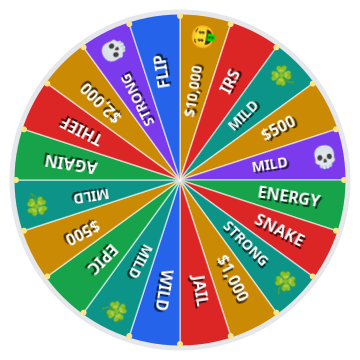
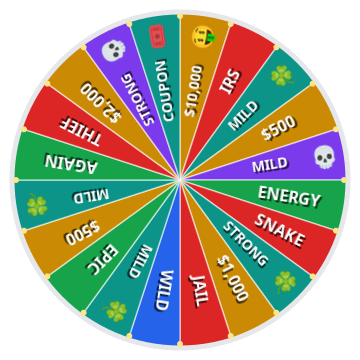
Wheel coupons and safer hunting
The free wheel's coin flip is now a Coupon (a Strong lucky charm: $10,000 off your next shop purchase) and the paid wheel's DOUBLE a Golden Coupon (Insane: $30,000 off). Both are only won on their own slices, and with both in the Pocket the shop uses the smallest one that covers the price. Licenses, ammo and recovery items can now be bought for $0 like tools already could, so a Coupon works for someone who has never had cash. The wheel now says "an Insane" lucky charm. Big game sends you to the hospital 10% of the time with the Mossberg, 6% with the Remington and 4% with the Barrett (was 15, 10 and 7), and small game 2% (was 3); the difference goes to common game. Wheel art redrawn.

Changed region(s): [[0.3667, 0.0306, 0.5194, 0.4889]]

diff --git a/src/commands/shop.js b/src/commands/shop.js
@@ -5,11 +5,30 @@ import { matchAnswer, optionsLine } from '../answers.js';
 import { claimGame } from '../games.js';
 import { formatWait } from '../duration.js';
 import { green, gained, lost } from '../colors.js';
+import { drawCharm, kickedIn } from '../charms.js';
 
 // Trading in a tool when upgrading is worth half of what's left of it
 // (guns and safes don't wear, so half their price).
 const TRADE_IN = 0.5;
 const tradeIn = (tool, uses) => Math.round(TRADE_IN * tool.price * (breakable(tool) ? Math.max(0, tool.max - uses) / tool.max : 1));
+
+// A Coupon from the Pocket takes up to its cap off a purchase of `price`:
+// `due` is what's left to pay, and `spend()` uses the Coupon up once the
+// purchase went through, giving the line the reply starts with.
+function couponFor(db, server, userId, price, track) {
+  const drawn = drawCharm(db, server, userId, { use: 'buy', price });
+  const off = drawn ? Math.min(price, drawn.charm.cap) : 0;
+  return {
+    due: price - off,
+    spend() {
+      if (!off) return '';
+      drawn.use();
+      track.earned('charms', off);
+      return `${kickedIn(drawn.charm)} It took ${gained(off)} off.\n`;
+    },
+  };
+}
+const paid = (cents) => (cents ? lost(cents) : 'free');
 
 export default {
   name: 'shop',
@@ -107,25 +126,28 @@ function buy(text, { prefix, user, server, db, track, reply, awaitAnswer }) {
   const ammo = current?.kind === 'gun' && ammoById.get(current.ammo);
   const credit = current ? tradeIn(current, held.uses) + (rounds ? Math.round(TRADE_IN * rounds * ammo.price / ammo.rounds) : 0) : 0;
   const cost = Math.max(0, tool.price - credit);
+  const coupon = couponFor(db, server.key, user.id, cost, track);
   const balance = db.cents(server.key, user.id);
-  const bought = tool.kind === 'gun' ? db.buyGun(server.key, user.id, tool.id, cost) : db.buyTool(server.key, user.id, tool.kind, tool.id, cost);
-  if (!bought) return reply(`That costs ${formatMoney(cost)}. You only have ${formatMoney(balance)}.`);
+  const bought = tool.kind === 'gun' ? db.buyGun(server.key, user.id, tool.id, coupon.due) : db.buyTool(server.key, user.id, tool.kind, tool.id, coupon.due);
+  if (!bought) return reply(`That costs ${formatMoney(coupon.due)}. You only have ${formatMoney(balance)}.`);
   track.lost('shop', cost);
+  const charmed = coupon.spend();
   const now = formatMoney(db.cents(server.key, user.id));
   const old = rounds ? `${current.name} (and ${rounds} ${rounds === 1 ? 'round' : 'rounds'})` : current?.name;
-  return reply(credit
-    ? `🛒 You traded in your ${old} for ${gained(credit)} and bought a ${tool.name} for ${lost(cost)}. You now have ${now}.`
-    : `🛒 You bought a ${tool.name} for ${lost(cost)}. You now have ${now}.`);
+  return reply(charmed + (credit
+    ? `🛒 You traded in your ${old} for ${gained(credit)} and bought a ${tool.name} for ${paid(coupon.due)}. You now have ${now}.`
+    : `🛒 You bought a ${tool.name} for ${paid(coupon.due)}. You now have ${now}.`));
 }
 
 function buyLicense(license, { user, server, db, track, reply }) {
   if (db.licenses(server.key, user.id).includes(license.id)) return reply(`You already have a ${license.name}.`);
+  const coupon = couponFor(db, server.key, user.id, license.price, track);
   const balance = db.cents(server.key, user.id);
-  if (!db.buyLicense(server.key, user.id, license.id, license.price)) {
-    return reply(`That costs ${formatMoney(license.price)}. You only have ${formatMoney(balance)}.`);
+  if (!db.buyLicense(server.key, user.id, license.id, coupon.due)) {
+    return reply(`That costs ${formatMoney(coupon.due)}. You only have ${formatMoney(balance)}.`);
   }
   track.lost('shop', license.price);
-  return reply(`🪪 You bought a ${license.name} for ${lost(license.price)}. You now have ${formatMoney(db.cents(server.key, user.id))}.`);
+  return reply(`${coupon.spend()}🪪 You bought a ${license.name} for ${paid(coupon.due)}. You now have ${formatMoney(db.cents(server.key, user.id))}.`);
 }
 
 // Ammo only for the gun someone has: anything else wouldn't fit it.
@@ -133,13 +155,14 @@ function buyAmmo(ammo, { prefix, user, server, db, track, reply }) {
   const gun = toolById.get(db.tool(server.key, user.id, 'gun')?.item);
   if (!gun) return reply(`That's ammo for the ${gunFor(ammo).name}, and you don't have a gun. Check \`${prefix}shop\`.`);
   if (gun.ammo !== ammo.id) return reply(`That won't fit your ${gun.name}. It takes ${ammoById.get(gun.ammo).name} (number ${numberOf(ammoById.get(gun.ammo))}).`);
+  const coupon = couponFor(db, server.key, user.id, ammo.price, track);
   const balance = db.cents(server.key, user.id);
-  if (!db.buyAmmo(server.key, user.id, ammo.id, ammo.rounds, ammo.price)) {
-    return reply(`That costs ${formatMoney(ammo.price)}. You only have ${formatMoney(balance)}.`);
+  if (!db.buyAmmo(server.key, user.id, ammo.id, ammo.rounds, coupon.due)) {
+    return reply(`That costs ${formatMoney(coupon.due)}. You only have ${formatMoney(balance)}.`);
   }
   track.lost('shop', ammo.price);
   const rounds = db.ammo(server.key, user.id).get(ammo.id);
-  return reply(`📦 You bought ${ammo.rounds} rounds of ${ammo.name} for ${lost(ammo.price)} (${rounds} now). You now have ${formatMoney(db.cents(server.key, user.id))}.`);
+  return reply(`${coupon.spend()}📦 You bought ${ammo.rounds} rounds of ${ammo.name} for ${paid(coupon.due)} (${rounds} now). You now have ${formatMoney(db.cents(server.key, user.id))}.`);
 }
 
 const YES_NO = { y: 'yes', yeah: 'yes', yep: 'yes', sure: 'yes', ok: 'yes', okay: 'yes', n: 'no', nah: 'no', nope: 'no' };
@@ -147,11 +170,12 @@ const YES_NO = { y: 'yes', yeah: 'yes', yep: 'yes', sure: 'yes', ok: 'yes', okay
 // Recovery items are used on the spot. One that would top the bar past its
 // max asks first, since the extra is lost.
 async function buyBoost(boost, { user, server, db, track, reply, awaitAnswer }) {
+  let coupon = couponFor(db, server.key, user.id, boost.price, track);
   const refused = (bar) => {
     if (bar.boostIn) return `You've had a recovery item in the last hour. Your next one is ready in ${formatWait(bar.boostIn)}.`;
     if (bar.points >= bar.max) return `Your energy is already full (${bar.max}/${bar.max}).`;
     const balance = db.cents(server.key, user.id);
-    return balance < boost.price ? `That costs ${formatMoney(boost.price)}. You only have ${formatMoney(balance)}.` : null;
+    return balance < coupon.due ? `That costs ${formatMoney(coupon.due)}. You only have ${formatMoney(balance)}.` : null;
   };
   let bar = energyOf(db, server.key, user.id);
   if (refused(bar)) return reply(refused(bar));
@@ -169,16 +193,17 @@ async function buyBoost(boost, { user, server, db, track, reply, awaitAnswer }) 
     } finally {
       release();
     }
-    // Things may have changed while they thought about it.
+    // Things may have changed while they thought about it (the Coupon spent, even).
     bar = energyOf(db, server.key, user.id);
+    coupon = couponFor(db, server.key, user.id, boost.price, track);
     if (refused(bar)) return reply(refused(bar));
   }
 
   const now = Date.now();
   const { points } = boosted(bar, boost);
-  if (!db.buyBoost(server.key, user.id, boost.price, points, points >= bar.max ? now : bar.since, now)) return reply(refused(bar));
+  if (!db.buyBoost(server.key, user.id, coupon.due, points, points >= bar.max ? now : bar.since, now)) return reply(refused(bar));
   track.lost('shop', boost.price);
-  return reply(`⚡ You bought ${/^[aeiou]/i.test(boost.name) ? 'an' : 'a'} ${boost.name} for ${lost(boost.price)}. Energy: ${points}/${bar.max}. You now have ${formatMoney(db.cents(server.key, user.id))}.`);
+  return reply(`${coupon.spend()}⚡ You bought ${/^[aeiou]/i.test(boost.name) ? 'an' : 'a'} ${boost.name} for ${paid(coupon.due)}. Energy: ${points}/${bar.max}. You now have ${formatMoney(db.cents(server.key, user.id))}.`);
 }
 
 function redeem(text, { user, server, db, track, reply }) {

diff --git a/src/charms.js b/src/charms.js
@@ -22,7 +22,9 @@ export const SEVERITIES = {
 };
 
 // on: gather (fish, mine, hunt), hunt, break (a pole or pickaxe about to
-// break), tool (a pole or pickaxe), bet or sell.
+// break), tool (a pole or pickaxe), bet, sell or buy (a ?shop purchase).
+// `ownSlice` charms are only won on their own wheel slice, never a charm slice.
+// A Coupon's `cap` is the most it takes off a purchase.
 export const CHARMS = [
   { id: 'second_wind', type: 'lucky', severity: 'mild', emoji: '🔋', name: 'Second Wind', on: 'gather',
     text: 'Your next fish, mine or hunt costs no energy.' },
@@ -40,10 +42,14 @@ export const CHARMS = [
     text: 'Your next two fish, mine or hunt are guaranteed epic.' },
   { id: 'guardian_angel', type: 'lucky', severity: 'strong', emoji: '👼', name: 'Guardian Angel', on: 'bet',
     text: "If you lose money on your next bet of $1,000 or more (a timeout penalty too), it's refunded (up to $10,000)." },
+  { id: 'coupon', type: 'lucky', severity: 'strong', emoji: '🎟', name: 'Coupon', on: 'buy', ownSlice: true, cap: 1_000_000,
+    text: 'Your next shop purchase is free, up to $10,000 (anything pricier gets $10,000 off). Pick carefully: it works on whatever you buy next, even a $25 fishing pole.' },
   { id: 'midas_touch', type: 'lucky', severity: 'insane', emoji: '👑', name: 'Midas Touch', on: 'sell',
     text: 'The next time you sell, one unit of the most valuable item in that sale sells for double. Pick carefully: it works on whatever you sell next, even a Rusty Nail.' },
   { id: 'pot_of_gold', type: 'lucky', severity: 'insane', emoji: '🌈', name: 'Pot of Gold', on: 'gather', legendary: true,
     text: 'Your next fish, mine or big-game hunt is guaranteed legendary.' },
+  { id: 'golden_coupon', type: 'lucky', severity: 'insane', emoji: '🎫', name: 'Golden Coupon', on: 'buy', ownSlice: true, cap: 3_000_000,
+    text: 'Your next shop purchase is free, up to $30,000 (anything pricier gets $30,000 off). It works on whatever you buy next, but with a Coupon too, the smaller one is used if it covers the price.' },
 
   { id: 'black_cat', type: 'misfortune', severity: 'mild', emoji: '🐈⬛', name: 'Black Cat', on: 'gather',
     text: 'Your next fish, mine or hunt catches nothing.' },
@@ -71,7 +77,7 @@ export const charmById = new Map(CHARMS.map((c) => [c.id, c]));
 
 // Whether a charm can fire on this use:
 //   { use: 'fish' | 'mine' | 'hunt_small' | 'hunt_big', breaking, room }
-//   { use: 'bet', wager, chance }      { use: 'sell', valuable }
+//   { use: 'bet', wager, chance }      { use: 'sell', valuable }      { use: 'buy', price }
 function fits(charm, use) {
   const gathering = ['fish', 'mine', 'hunt_small', 'hunt_big'].includes(use.use);
   const hunting = use.use.startsWith('hunt');
@@ -88,17 +94,22 @@ function fits(charm, use) {
     case 'break': return false;
     case 'bet': return use.use === 'bet' && use.wager >= BET_CHARM_MIN && (!charm.longShot || use.chance <= 1 / 3);
     case 'sell': return use.use === 'sell' && (!charm.valuable || use.valuable);
+    case 'buy': return use.use === 'buy';
     default: return false;
   }
 }
 
 // One charm from someone's Pocket that fits this use, picked at random, or
-// null. It isn't used up until `use()` is called (once the command really
+// null. Coupons aren't random: the smallest that covers the price, else the
+// biggest. It isn't used up until `use()` is called (once the command really
 // happens).
 export function drawCharm(db, server, userId, use) {
   const rows = db.pocket(server, userId).filter((r) => charmById.has(r.charm) && fits(charmById.get(r.charm), use));
   if (!rows.length) return null;
-  const row = rows[randomInt(rows.length)];
+  const cap = (r) => charmById.get(r.charm).cap;
+  const row = use.use === 'buy'
+    ? rows.sort((a, b) => cap(a) - cap(b)).find((r) => cap(r) >= use.price) ?? rows.at(-1)
+    : rows[randomInt(rows.length)];
   return { charm: charmById.get(row.charm), use: () => db.useCharm(row.id) };
 }
 
@@ -147,4 +158,4 @@ export function findCharm(text) {
 }
 
 // Charms of a type and severity, for the wheel's charm slices.
-export const charmsOf = (type, severity) => CHARMS.filter((c) => c.type === type && c.severity === severity);
+export const charmsOf = (type, severity) => CHARMS.filter((c) => c.type === type && c.severity === severity && !c.ownSlice);

diff --git a/src/commands/wheel.js b/src/commands/wheel.js
@@ -6,7 +6,7 @@ import { claimGame } from '../games.js';
 import { placeOf } from '../storage.js';
 import { hospitalize, takeable, billLine } from '../hospital.js';
 import { surge, energyOf } from '../energy.js';
-import { charmsOf, givesCharm, charmName, TYPES, SEVERITIES } from '../charms.js';
+import { charmById, charmsOf, givesCharm, charmName, TYPES, SEVERITIES } from '../charms.js';
 import { gained, lost, green, red } from '../colors.js';
 import { formatWait } from '../duration.js';
 
@@ -172,9 +172,6 @@ function land(slice, ctx) {
       return { text: `${slice.emoji} You won ${gained(slice.cents)}!${slice.cents >= 1_000_000 ? ' **JACKPOT!**' : ''}` };
     case 'lose':
       return { text: `💸 You lost a bet with a stranger. ${collect(slice.cents)}` };
-    case 'flip':
-      if (randomInt(2)) { give(slice.cents); return { text: `🪙 The coin says heads: ${gained(slice.cents)}!` }; }
-      return { text: `🪙 The coin says tails. ${collect(slice.cents)}` };
     case 'irs': {
       const owed = Math.min(Math.round(cash() * slice.rate), slice.max);
       const taken = owed ? take(owed) : 0;
@@ -232,11 +229,12 @@ function land(slice, ctx) {
       return { text: `🚔 Jail! No economy commands for ${formatWait(slice.ms)} (out <t:${stamp(until)}:R>). \`?stats\` still works.` };
     }
     case 'charm': {
-      const pool = charmsOf(slice.type, slice.severity);
+      // A slice naming its charm (a Coupon) always gives that one.
+      const pool = slice.charm ? [charmById.get(slice.charm)] : charmsOf(slice.type, slice.severity);
       const charm = pool[randomInt(pool.length)];
       givesCharm(db, server.key, user.id, charm);
       const [severity, paint] = SEVERITIES[slice.type][slice.severity];
-      return { text: `${TYPES[slice.type].emoji} You got a ${paint(severity)} ${TYPES[slice.type].label.toLowerCase()}: ${charm.emoji} ${charmName(charm)}! ${charm.text}` };
+      return { text: `${TYPES[slice.type].emoji} You got ${/^[aeiou]/i.test(severity) ? 'an' : 'a'} ${paint(severity)} ${TYPES[slice.type].label.toLowerCase()}: ${charm.emoji} ${charmName(charm)}! ${charm.text}` };
     }
     case 'wild': {
       const option = slice.options[randomInt(slice.options.length)];
@@ -265,7 +263,7 @@ function steal(id, { server, user, db, track }) {
 // good outcomes in green and bad ones in red (gambles stay plain). No emojis
 // on the lines: owner's call, it was too much.
 const GROUPS = [
-  ['Money', ['cash', 'lose', 'irs', 'flip']],
+  ['Money', ['cash', 'lose', 'irs']],
   ['Charms', ['charm']],
   ['Items & perks', ['items', 'surge', 'again', 'wild']],
   ['Bad luck', ['snake', 'hospital', 'pickpocket', 'robbed', 'jail']],
@@ -275,8 +273,7 @@ function odds() {
     cash: () => [green, formatMoney(s.cents)],
     lose: () => [red, `Lose ${formatMoney(s.cents)} (cash first, then items)`],
     irs: () => [red, `IRS audit: ${Math.round(s.rate * 100)}% of your cash, up to ${formatMoney(s.max)}`],
-    flip: () => [String, `Coin flip: win or lose ${formatMoney(s.cents)}`],
-    charm: () => [s.type === 'lucky' ? green : red, `${SEVERITIES[s.type][s.severity][0]} ${TYPES[s.type].label.toLowerCase()}`],
+    charm: () => [s.type === 'lucky' ? green : red, `${SEVERITIES[s.type][s.severity][0]} ${TYPES[s.type].label.toLowerCase()}${s.charm ? `: ${charmById.get(s.charm).name}` : ''}`],
     items: () => [green, s.count > 1 ? `${s.count} ${s.tier} items` : `${/^[aeiou]/.test(s.tier) ? 'An' : 'A'} ${s.tier} item`],
     surge: () => [green, 'Energy Surge: double energy max for 12 hours'],
     again: () => [green, 'Spin again'],

diff --git a/src/wheel.js b/src/wheel.js
@@ -41,10 +41,11 @@ export const WHEELS = {
     { emoji: '🥷', label: 'THIEF', color: C.bad, kind: 'pickpocket' },
     { emoji: '💰', label: '$2,000', color: C.cash, kind: 'cash', cents: 200_000 },
     { emoji: '💀', label: 'STRONG', color: C.misfortune, kind: 'charm', type: 'misfortune', severity: 'strong' },
-    { emoji: '🪙', label: 'FLIP', color: C.swing, kind: 'flip', cents: 100_000 },
+    { emoji: '🎟', label: 'COUPON', color: C.lucky, kind: 'charm', type: 'lucky', severity: 'strong', charm: 'coupon' },
   ],
   // Paid spins: high risk, high reward. The first one each day gives back
-  // about what it costs; the doubling price makes the rest lose.
+  // about what it costs (a bit more for someone who wants something from the
+  // shop, with the Golden Coupon); the doubling price makes the rest lose.
   paid: [
     { emoji: '🎰', label: '$40,000', color: C.jackpot, kind: 'cash', cents: 4_000_000 },
     { emoji: '💰', label: '$5,000', color: C.paidCash, kind: 'cash', cents: 500_000 },
@@ -57,7 +58,7 @@ export const WHEELS = {
     { emoji: '🦹', label: 'ROBBED', color: C.paidBad, kind: 'robbed' },
     { emoji: '🤑', label: '$10,000', color: C.paidCash, kind: 'cash', cents: 1_000_000 },
     { emoji: '💀', label: 'SEVERE', color: C.paidMisfortune, kind: 'charm', type: 'misfortune', severity: 'severe' },
-    { emoji: '🪙', label: 'DOUBLE', color: C.paidSwing, kind: 'flip', cents: 500_000 },
+    { emoji: '🎫', label: 'COUPON', color: C.paidLucky, kind: 'charm', type: 'lucky', severity: 'insane', charm: 'golden_coupon' },
     { emoji: '💎', label: '2 EPICS', color: C.paidGood, kind: 'items', tier: 'epic', count: 2 },
     { emoji: '🏥', label: 'HOSPITAL', color: C.paidBad, kind: 'hospital' },
     { emoji: '🍀', label: 'STRONG', color: C.paidLucky, kind: 'charm', type: 'lucky', severity: 'strong' },

diff --git a/src/db.js b/src/db.js
@@ -295,7 +295,7 @@ export function openDb(path) {
     ammo: (server, userId) => new Map(s.ammo.all(server, userId).map((r) => [r.ammo, r.rounds])),
     // Pays for a box of ammo. False, and nothing changes, if they can't afford it.
     buyAmmo: (server, userId, ammo, rounds, cost) => atomic(() => {
-      if (s.takeCents.run(cost, server, userId, cost).changes === 0) return false;
+      if (cost > 0 && s.takeCents.run(cost, server, userId, cost).changes === 0) return false;
       s.addAmmo.run(server, userId, ammo, rounds);
       return true;
     }),
@@ -309,7 +309,7 @@ export function openDb(path) {
       (off ? s.turnGiftsOff.run(server, userId) : s.turnGiftsOn.run(server, userId)).changes > 0,
     // Pays for a license. False, and nothing changes, if they can't afford it.
     buyLicense: (server, userId, license, cost) => atomic(() => {
-      if (s.takeCents.run(cost, server, userId, cost).changes === 0) return false;
+      if (cost > 0 && s.takeCents.run(cost, server, userId, cost).changes === 0) return false;
       s.addLicense.run(server, userId, license);
       return true;
     }),
@@ -424,7 +424,7 @@ export function openDb(path) {
     // Pays for a recovery item and applies it. False, and nothing changes,
     // if they can't afford it.
     buyBoost: (server, userId, cost, points, since, at) => atomic(() => {
-      if (s.takeCents.run(cost, server, userId, cost).changes === 0) return false;
+      if (cost > 0 && s.takeCents.run(cost, server, userId, cost).changes === 0) return false;
       s.boost.run(server, userId, points, since, at);
       return true;
     }),

diff --git a/src/tools.js b/src/tools.js
@@ -38,9 +38,9 @@ export const TOOLS = [
   // keep you further from the animal). What a better gun saves on the
   // hospital becomes common game; the other finds are the same with every gun.
   { id: 'marlin_60', kind: 'gun', name: 'Marlin Model 60', price: 250_000, ammo: 'ammo_22lr', big: false },
-  { id: 'mossberg_500', kind: 'gun', name: 'Mossberg 500', price: 1_000_000, ammo: 'ammo_12ga', big: true, hospital: 15 },
-  { id: 'remington_700', kind: 'gun', name: 'Remington 700', price: 2_500_000, ammo: 'ammo_308', big: true, hospital: 10 },
-  { id: 'barrett_50', kind: 'gun', name: 'Barrett .50 Cal', price: 7_500_000, ammo: 'ammo_50bmg', big: true, hospital: 7 },
+  { id: 'mossberg_500', kind: 'gun', name: 'Mossberg 500', price: 1_000_000, ammo: 'ammo_12ga', big: true, hospital: 10 },
+  { id: 'remington_700', kind: 'gun', name: 'Remington 700', price: 2_500_000, ammo: 'ammo_308', big: true, hospital: 6 },
+  { id: 'barrett_50', kind: 'gun', name: 'Barrett .50 Cal', price: 7_500_000, ammo: 'ammo_50bmg', big: true, hospital: 4 },
 
   // Safes only differ in how many items they hold. Bigger ones cost more per
   // space, so keeping a few valuables is cheap and hoarding isn't.

diff --git a/src/commands/hunt.js b/src/commands/hunt.js
@@ -13,18 +13,18 @@ import { placeOf } from '../storage.js';
 // per energy but lands you in the hospital far more often. Misses are rare
 // (5%, any gun). The gun only changes that hospital chance (what it saves
 // goes to common game), so a better gun is safer, not richer.
-// For someone worth ~$50k, small game is ~$227 an energy and big game ~$435
-// to ~$465 (fishing ~$212); big game stops paying at ~$150k worth with the
-// shotgun, ~$190k with the rifle and ~$230k with the Barrett.
+// For someone worth ~$50k, small game is ~$239 an energy and big game ~$466
+// to ~$487 (fishing ~$212); big game stops paying at ~$190k worth with the
+// shotgun, ~$270k with the rifle and ~$355k with the Barrett.
 const MODES = {
   small: {
     energy: 1,
     game: 'small game',
     from: 'hunt_small',
     tiers: () => [
-      { tier: 'hospital', weight: 3 },
+      { tier: 'hospital', weight: 2 },
       { tier: 'nothing', weight: 5 },
-      { tier: 'common', weight: 60 },
+      { tier: 'common', weight: 61 },
       { tier: 'rare', weight: 25 },
       { tier: 'epic', weight: 7 },
     ],
